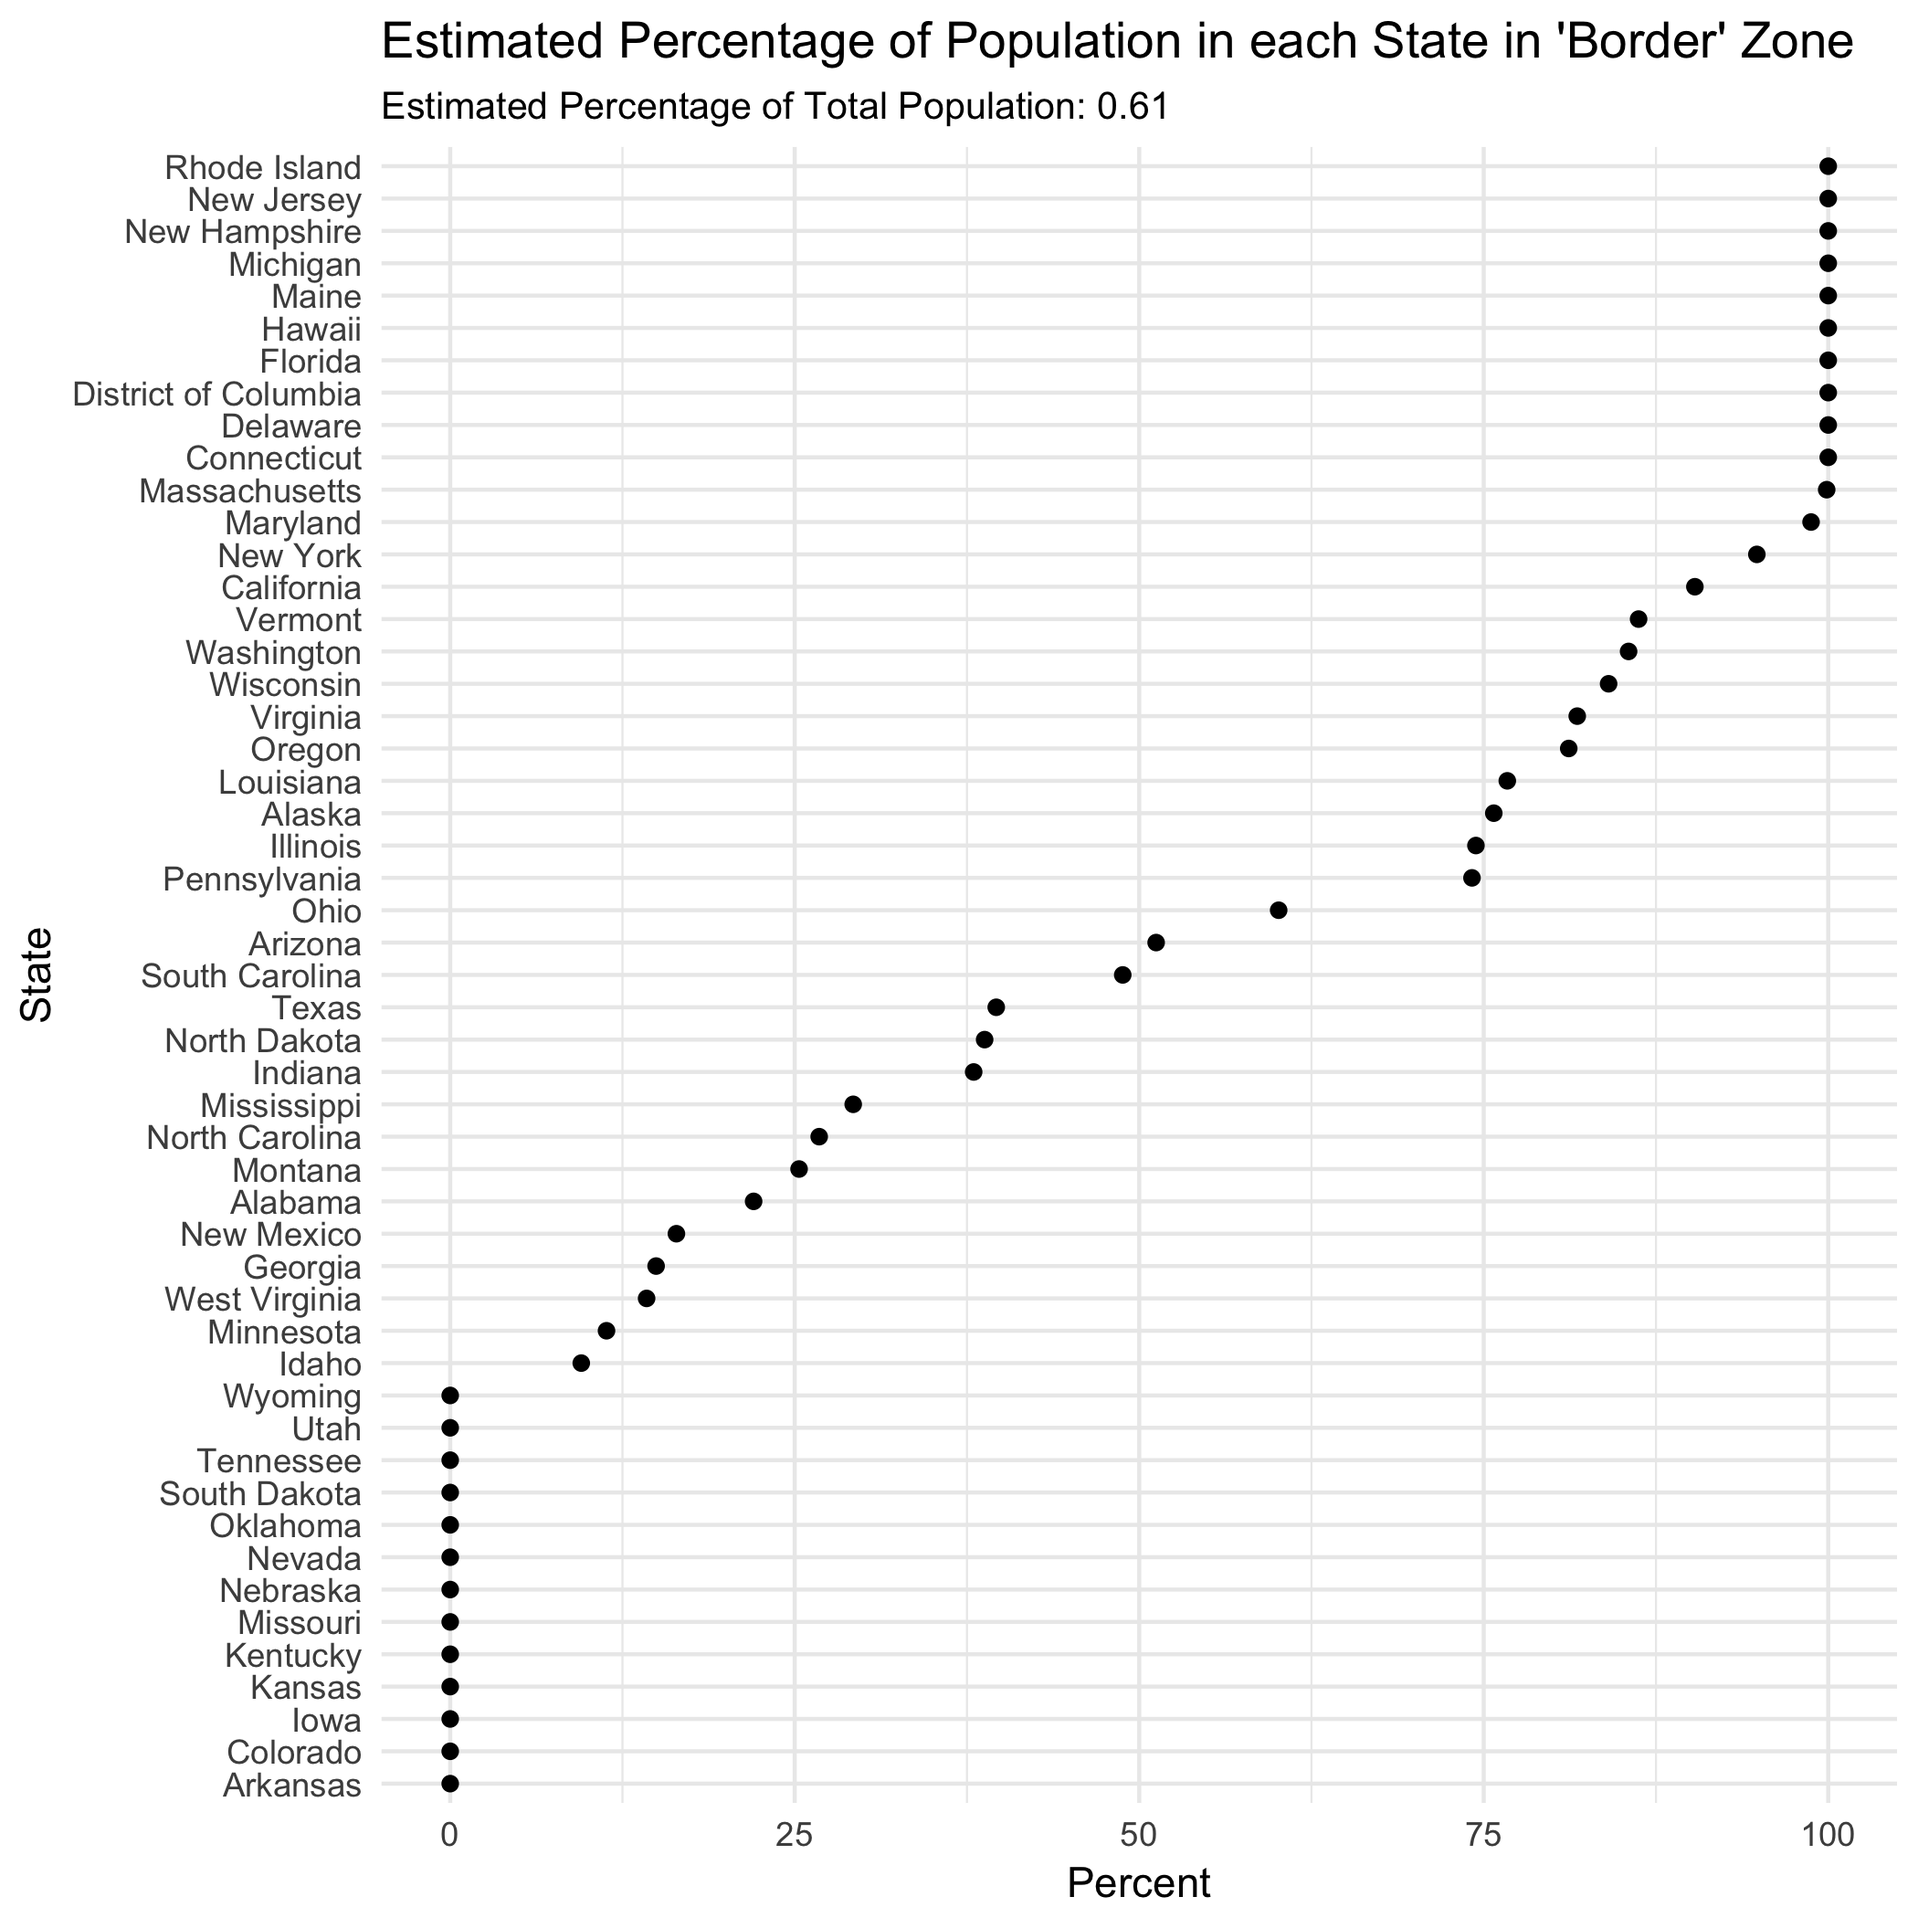
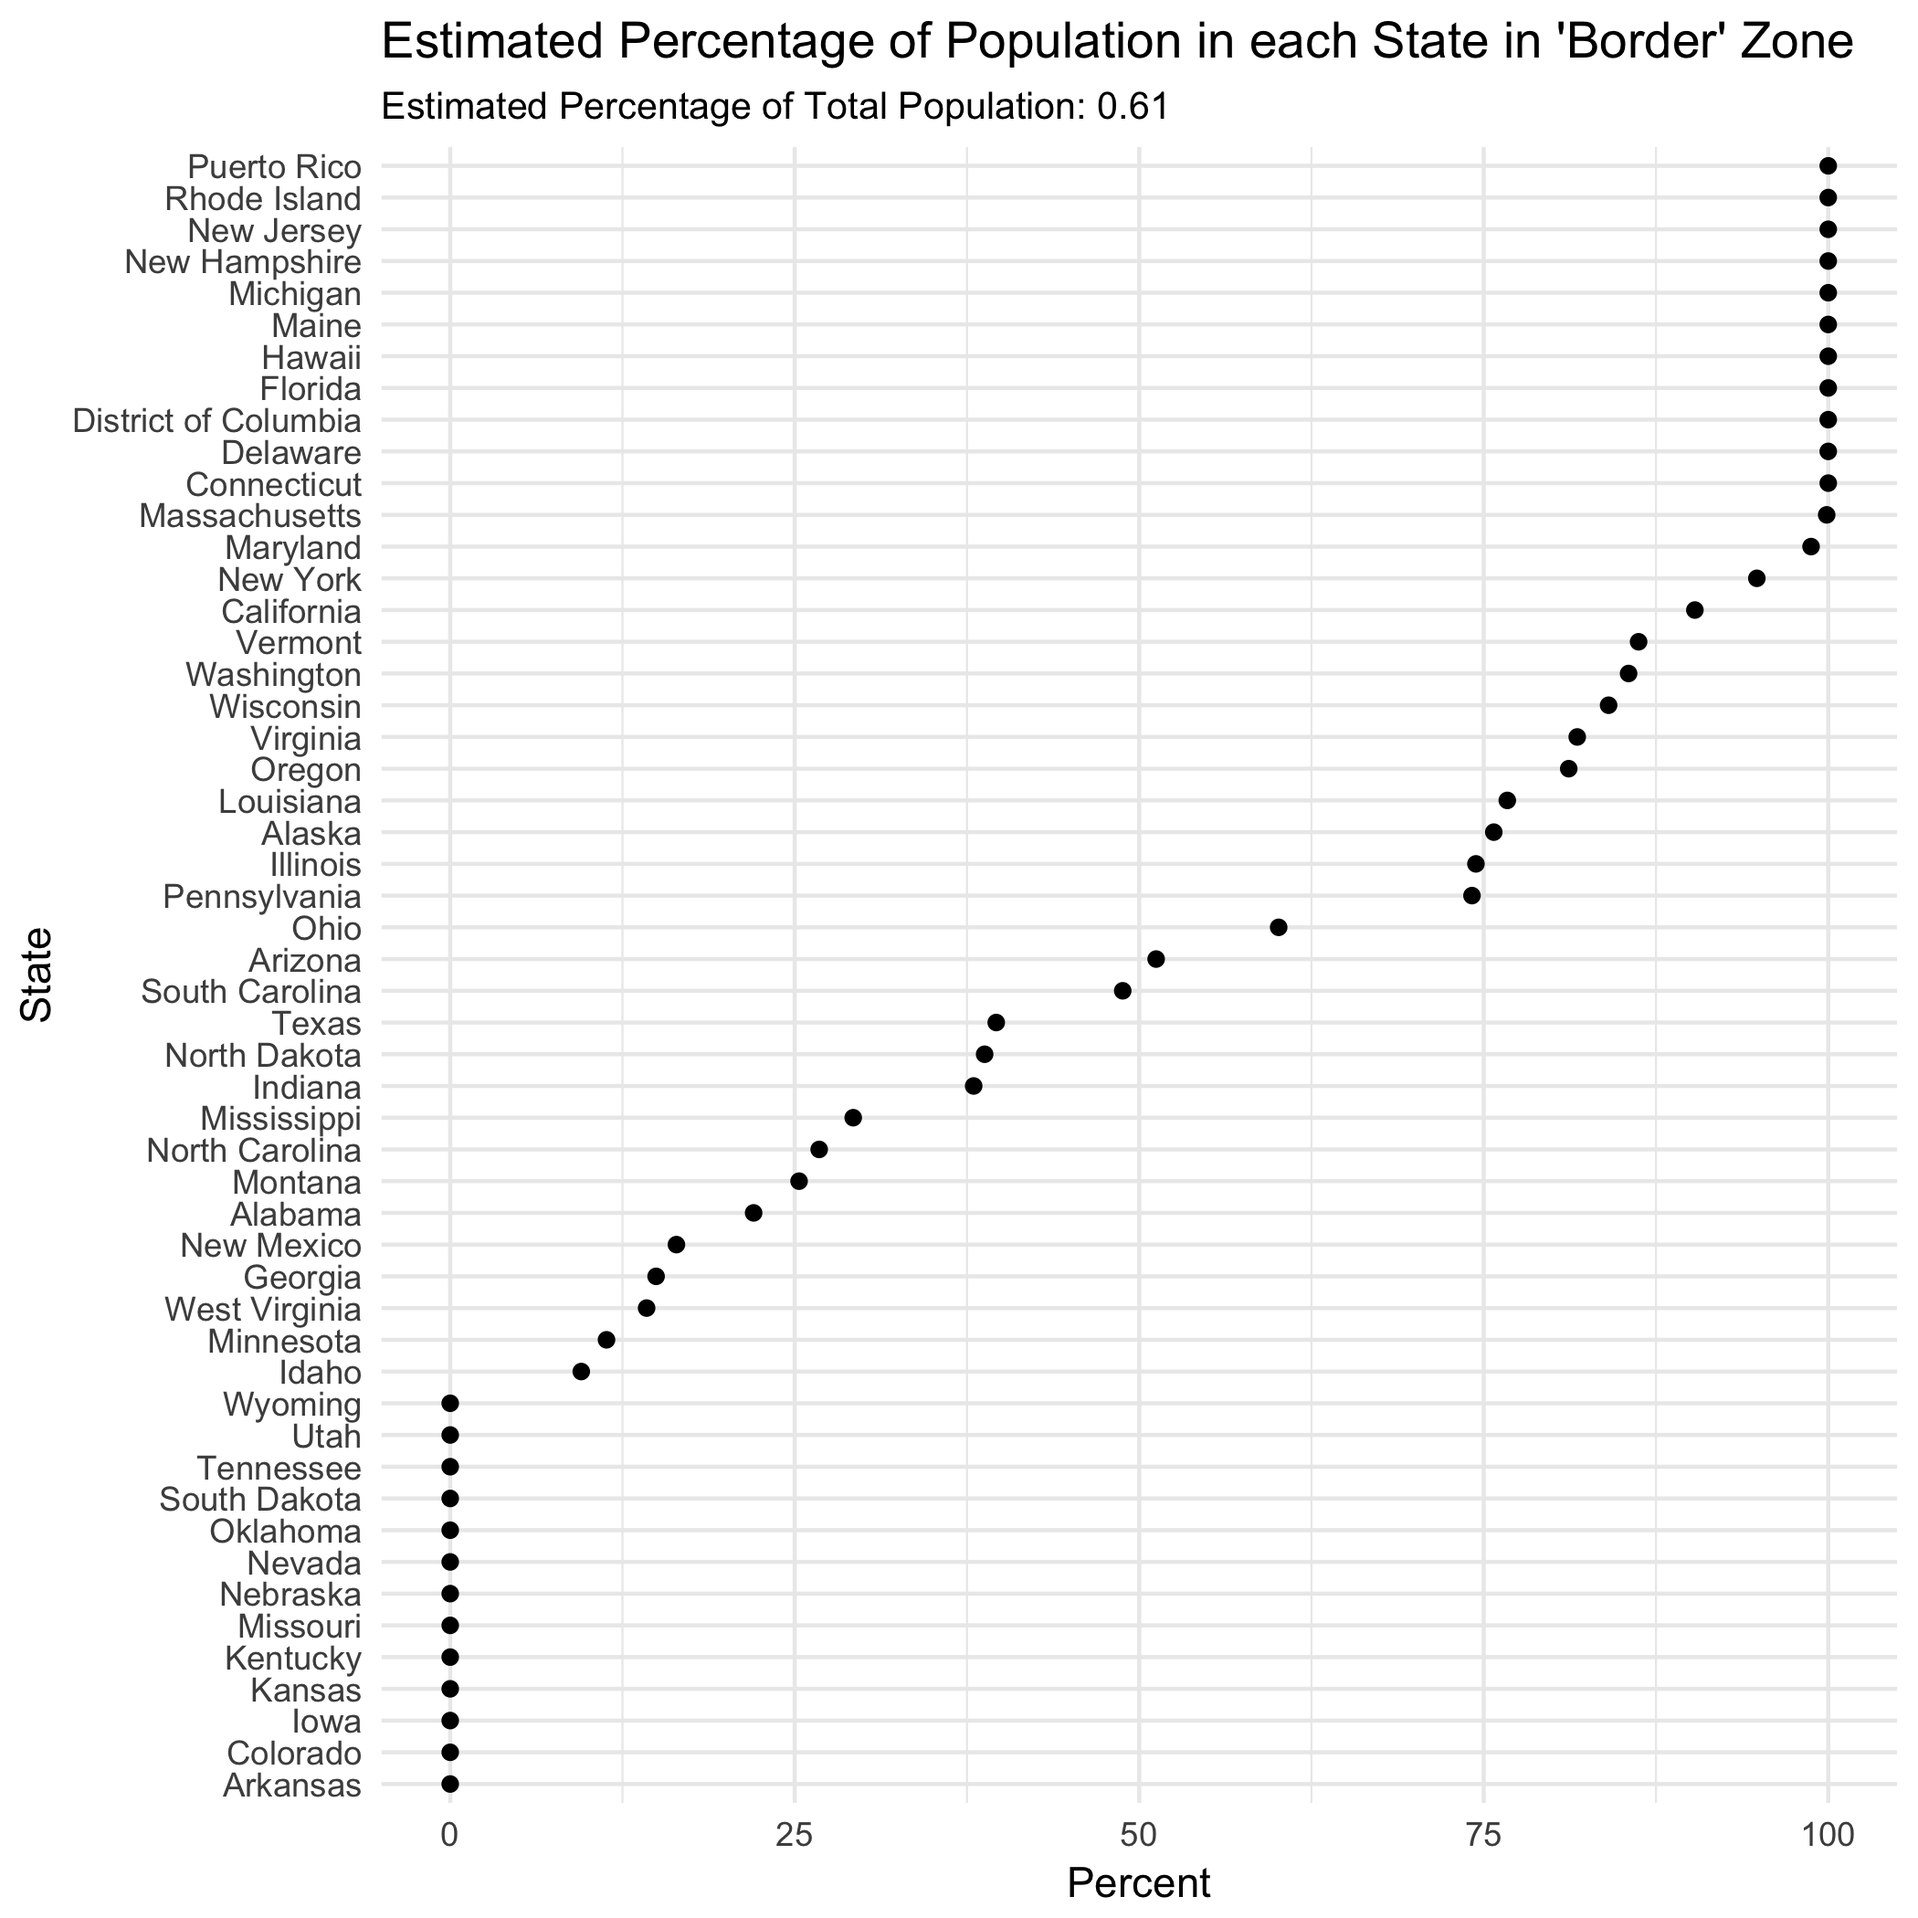
Reinserted PR into the population graph. Added some diagnostics to border-states.R

Changed region(s): [[0.031, 0.0619, 0.9905, 0.9286]]

diff --git a/README.md b/README.md
@@ -38,7 +38,7 @@ consider the big populous counties in California overlapping the 'border' zone
 
 ![](pics/border-zone-california.png)
 
-Take San Bernardino as an example.
+Take San Bernardino County as an example.
 
 ![](pics/san-bernardino.png)
 
